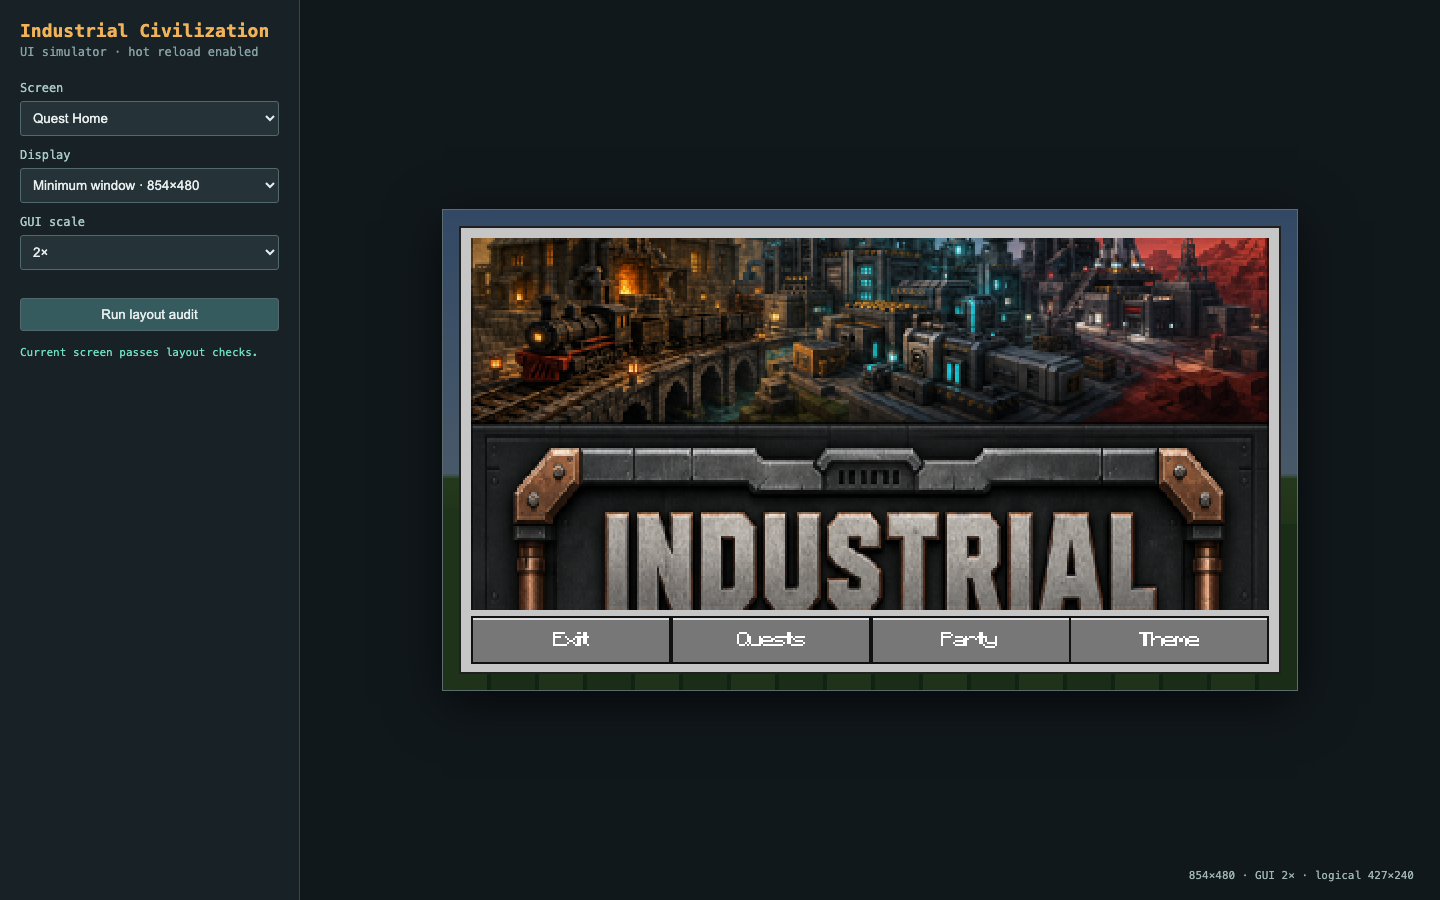
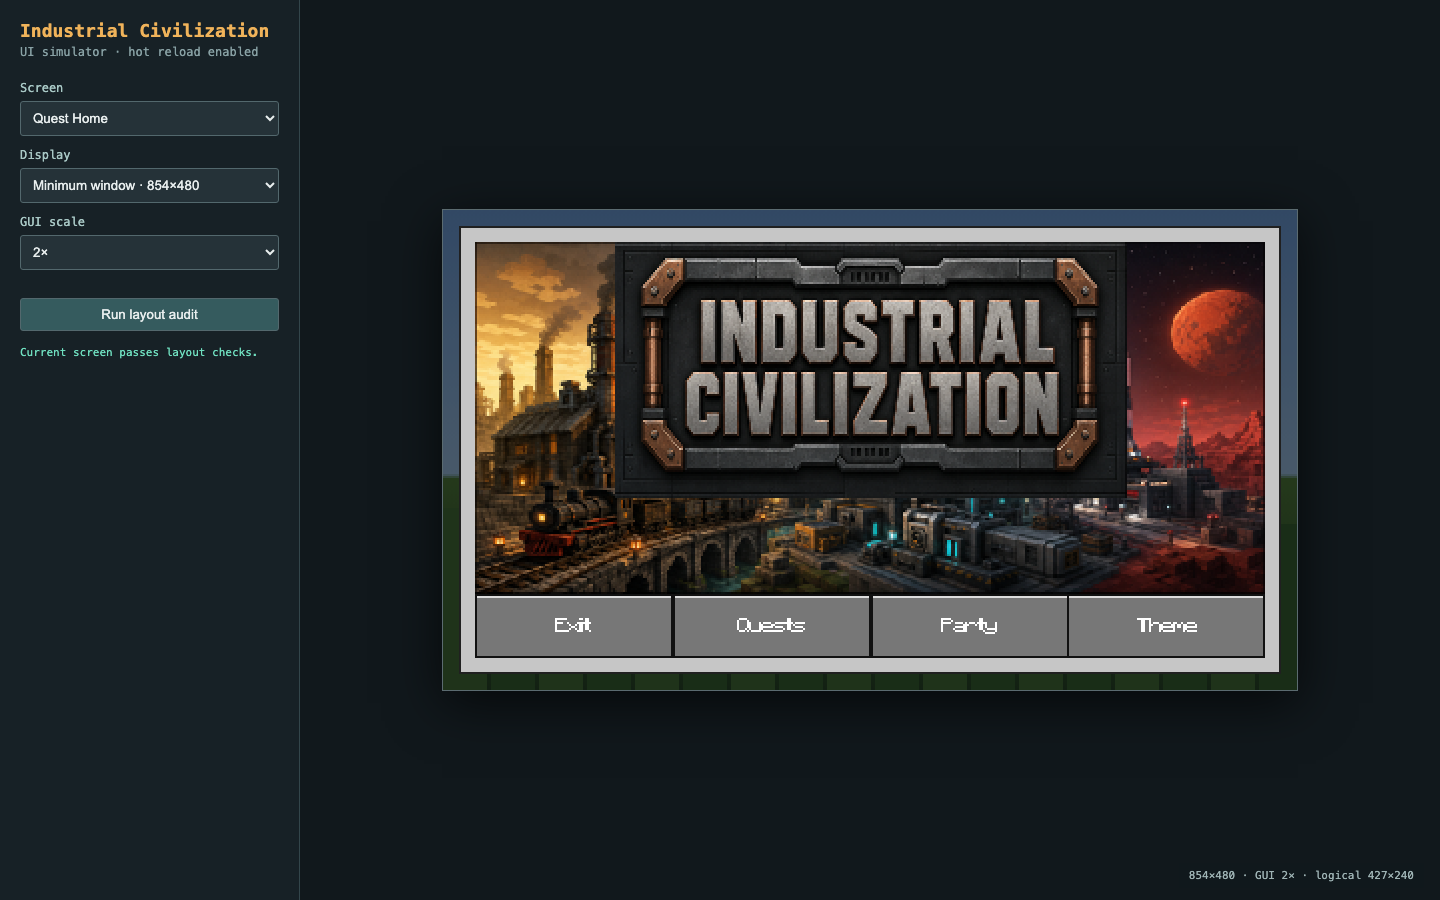
Match Better Questing home composition in simulator

Changed region(s): [[0.3125, 0.2489, 0.9062, 0.7467]]

diff --git a/tools/ui_simulator/app.js b/tools/ui_simulator/app.js
@@ -247,18 +247,35 @@ function renderAdvancements(d, auditScreen = "advancements") {
   if (!contained(panel, {x:0,y:0,w:d.width,h:d.height})) issue(auditScreen, "Advancements panel clips viewport", panel);
 }
 
+function questHomeLayout(d, auditScreen = "questhome") {
+  const panel = {x: 8, y: 8, w: d.width - 16, h: d.height - 16};
+  const content = {x: panel.x + 8, y: panel.y + 8, w: panel.w - 16, h: panel.h - 16};
+  const buttonHeight = 32;
+  const backdrop = {x: content.x, y: content.y, w: content.w, h: content.h - buttonHeight};
+  const settings = data.questHome || {anchorX: .5, anchorY: 0, offsetX: -128, offsetY: 0};
+  const title = {x: backdrop.x + backdrop.w * settings.anchorX + settings.offsetX,
+    y: backdrop.y + backdrop.h * settings.anchorY + settings.offsetY, w: 256, h: 128};
+  if (!contained(backdrop, panel)) issue(auditScreen, "Better Questing home backdrop clips its panel", backdrop);
+  if (!contained(title, backdrop)) issue(auditScreen, "Better Questing anchored title clips its backdrop", title);
+  return {panel, content, backdrop, title, buttonHeight};
+}
+
 function renderQuestHome(d, auditScreen = "questhome") {
   worldBackground(d.width, d.height, true);
-  const panel = {x: 8, y: 8, w: d.width - 16, h: d.height - 16};
+  const {panel, content, backdrop, title, buttonHeight} = questHomeLayout(d, auditScreen);
   rect(panel.x, panel.y, panel.w, panel.h, "#c6c6c6", "#202020");
-  const buttonHeight = 24, imageBox = {x: panel.x + 6, y: panel.y + 6, w: panel.w - 12, h: panel.h - buttonHeight - 14};
-  const scale = Math.max(imageBox.w / questHomeImage.width, imageBox.h / questHomeImage.height);
-  const iw = questHomeImage.width * scale, ih = questHomeImage.height * scale;
-  ctx.save(); ctx.beginPath(); ctx.rect(imageBox.x, imageBox.y, imageBox.w, imageBox.h); ctx.clip();
-  ctx.drawImage(questHomeImage, imageBox.x + (imageBox.w - iw) / 2, imageBox.y + (imageBox.h - ih) / 2, iw, ih); ctx.restore();
-  const labels = ["Exit", "Quests", "Party", "Theme"], bw = (panel.w - 12) / labels.length;
-  labels.forEach((label, index) => button(panel.x + 6 + index * bw, panel.y + panel.h - buttonHeight - 5, bw, buttonHeight, label));
-  if (imageBox.w < 100 || imageBox.h < 80) issue(auditScreen, "Quest-home artwork viewport is too small", imageBox);
+  const halfHeight = questHomeImage.height / 2;
+  ctx.save(); ctx.beginPath(); ctx.rect(backdrop.x, backdrop.y, backdrop.w, backdrop.h); ctx.clip();
+  // GuiHome renders the atlas as two independent 256×128 textures: the upper
+  // half stretches across the canvas and the lower half remains a 2:1 title
+  // card positioned by the configured anchor and offsets.
+  ctx.drawImage(questHomeImage, 0, 0, questHomeImage.width, halfHeight,
+    backdrop.x, backdrop.y, backdrop.w, backdrop.h);
+  ctx.drawImage(questHomeImage, 0, halfHeight, questHomeImage.width, halfHeight,
+    title.x, title.y, title.w, title.h);
+  ctx.restore();
+  const labels = ["Exit", "Quests", "Party", "Theme"], bw = content.w / labels.length;
+  labels.forEach((label, index) => button(content.x + index * bw, content.y + content.h - buttonHeight, bw, buttonHeight, label));
 }
 
 function renderSpaceMap(d, auditScreen = "spacemap") {
@@ -478,6 +495,7 @@ async function audit() {
     for (const faction of data.factions) auditFactionLayout(d, faction, `factions/${faction.id}@${displayWidth}x${displayHeight}/g${requested}`);
     auditWarmupLayout(d, `warmup@${displayWidth}x${displayHeight}/g${requested}`);
     auditCreditsLayout(d, `credits@${displayWidth}x${displayHeight}/g${requested}`);
+    questHomeLayout(d, `questhome@${displayWidth}x${displayHeight}/g${requested}`);
     for (const line of data.questLines) auditQuestLayout(d, line, `quests/${line.id}@${displayWidth}x${displayHeight}/g${requested}`);
   }
   $("hei").checked = originalHei;

diff --git a/tools/ui_simulator/server.py b/tools/ui_simulator/server.py
@@ -81,6 +81,17 @@ def parse_quests() -> list[dict]:
     return sorted(result, key=lambda line: line["order"])
 
 
+def parse_quest_home() -> dict:
+    data = json.loads(QUESTS.read_text(encoding="utf-8"))
+    settings = data["questSettings:10"]["betterquesting:10"]
+    return {
+        "anchorX": settings.get("home_anchor_x:5", 0.5),
+        "anchorY": settings.get("home_anchor_y:5", 0.0),
+        "offsetX": settings.get("home_offset_x:3", -128),
+        "offsetY": settings.get("home_offset_y:3", 0),
+    }
+
+
 def parse_main_menu() -> dict:
     return json.loads((ROOT / "config/CustomMainMenu/mainmenu.json").read_text(encoding="utf-8"))
 
@@ -119,6 +130,7 @@ class Handler(BaseHTTPRequestHandler):
         if path == "/api/data":
             self.send_json({"lang": parse_lang(), "machines": parse_machines(),
                             "factions": parse_factions(), "questLines": parse_quests(),
+                            "questHome": parse_quest_home(),
                             "mainMenu": parse_main_menu()})
             return
         if path == "/api/stamp":
